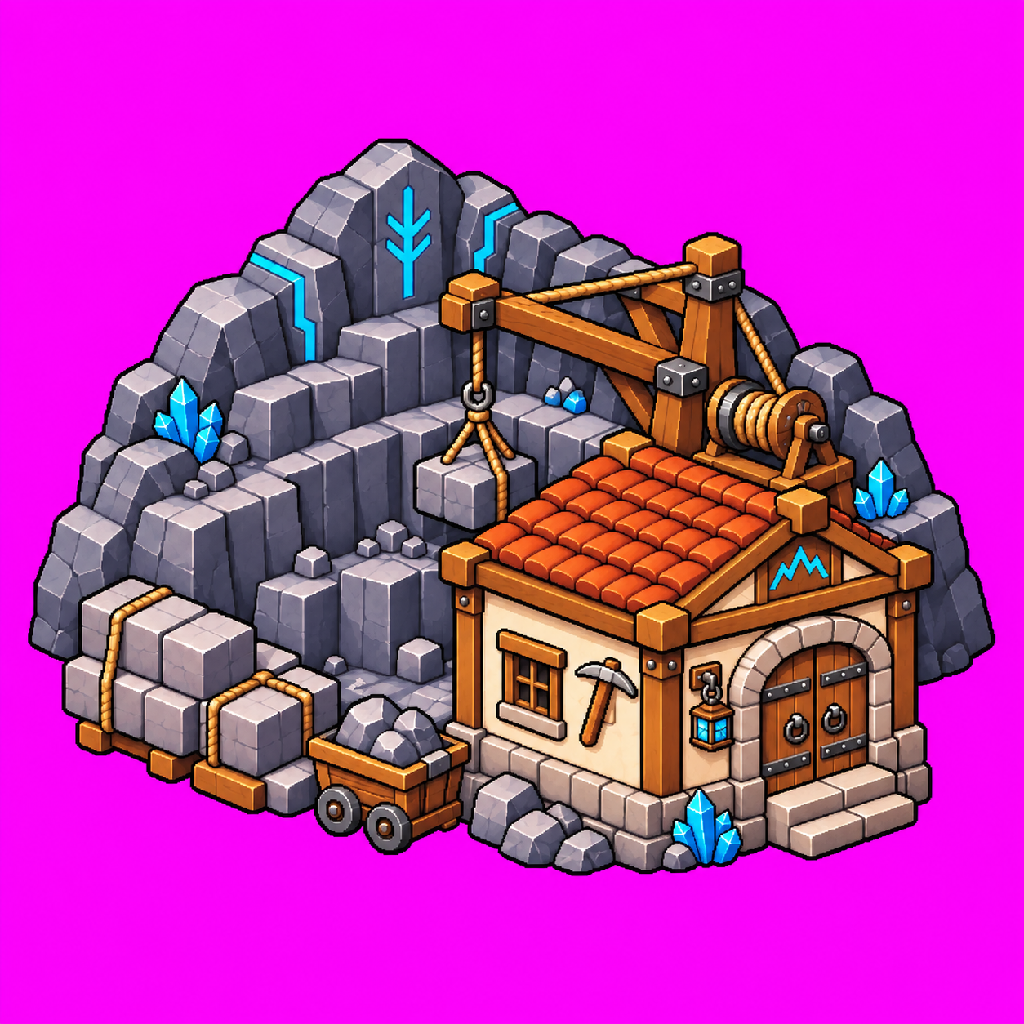
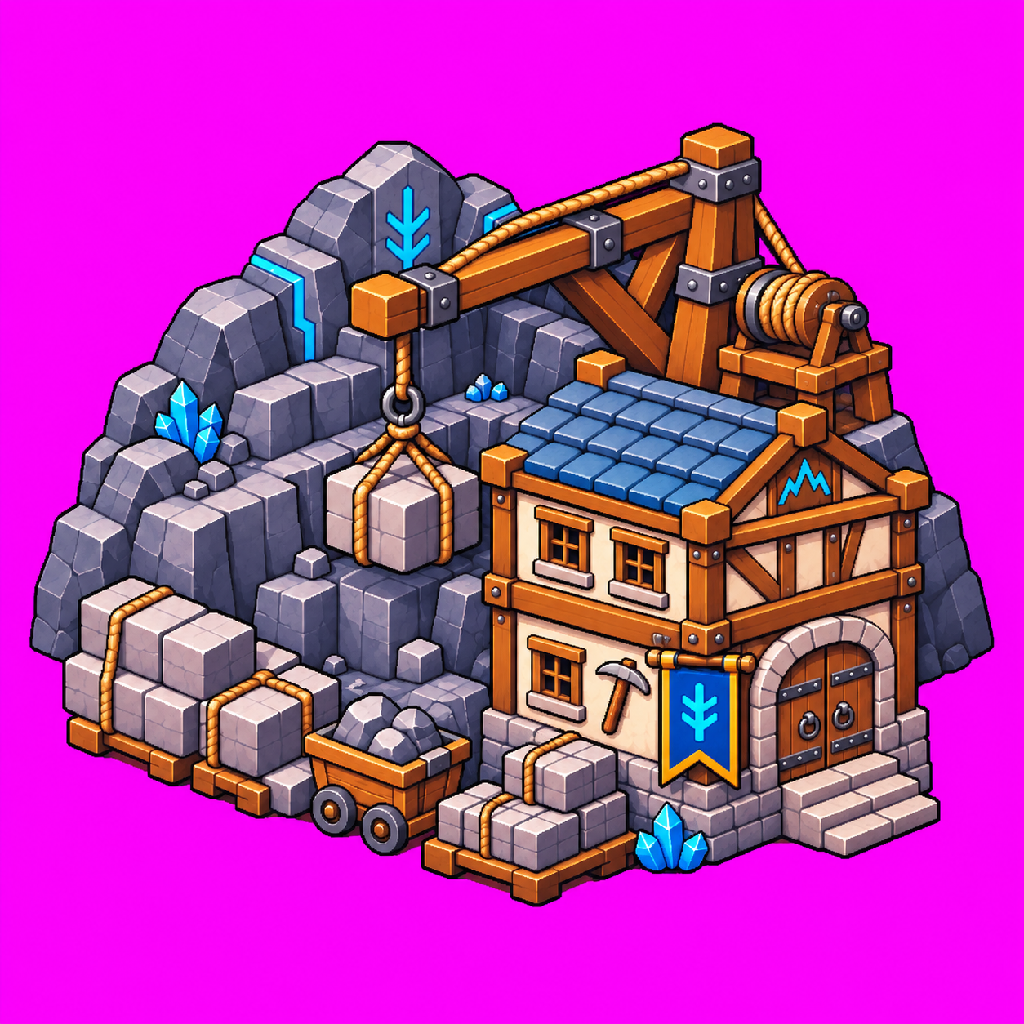
art: level 2/3 architecture for the quarry (redrawn) and four Arcane buildings

diff --git a/src/render/imageArt.ts b/src/render/imageArt.ts
@@ -188,11 +188,16 @@ export const IMAGE_BUILDINGS: Readonly<Record<string, string>> = {
  * a missing level falls back to the next lower one, then to the base image. Files sit next to the base image.
  */
 export const IMAGE_BUILDING_LEVELS: Readonly<Partial<Record<string, readonly (2 | 3)[]>>> = {
+  arcane_archmage: [2, 3],
+  arcane_frost_mages: [2, 3],
+  arcane_throne: [2, 3],
+  arcane_ward: [2, 3],
   stone_catapult: [2, 3],
   stone_crystal: [2, 3],
   stone_golem_forge: [2, 3],
   stone_miners: [2, 3],
   stone_mountain_heart: [2, 3],
+  stone_quarry: [2, 3],
   stone_throne: [2, 3],
   stone_wall: [2, 3],
   wheat_field: [2, 3],

diff --git a/docs/art-review/levels/review.md b/docs/art-review/levels/review.md
@@ -10,3 +10,5 @@ Danh sách P2 `building_<card>_l2/_l3` trong `tools/asset-admin/planned.json`. D
 
 - **Lúa Mì (7 + mẫu):** ruộng (L3 thêm chòi canh), kho thóc, trại nông dân, nhà thợ gặt, bù nhìn, Ngai, cối xay gió. Bảng `sheet-wheat.png`. ĐÃ DUYỆT cả nhóm.
 - **Đá Núi (7/8):** máy bắn đá, tháp pha lê, lò golem, mỏ, tim núi, Ngai, tường. Bảng `sheet-stone.png`. ĐÃ DUYỆT. **Mỏ đá (`stone_quarry`)**: L2/L3 gần như y hệt L1, vẽ lại với yêu cầu rõ hơn.
+- **Đá Núi, mỏ đá (vòng 2):** L2 thêm tầng và cần cẩu, L3 tháp cẩu lớn. ĐÃ DUYỆT.
+- **Phép Thuật (4/7):** pháp sư băng, đại pháp sư, Ngai, bùa chắn. Bảng `sheet-arcane.png`. ĐÃ DUYỆT. Học viện, thư viện, tháp pháp sư: mái L2/L3 thành sọc tím xanh lá, khác mái tím trơn của L1, vẽ lại.

diff --git a/docs/art-review/levels/stone_quarry/l3/prompt.md b/docs/art-review/levels/stone_quarry/l3/prompt.md
@@ -25,3 +25,5 @@ PRODUCTION (overrides "transparent background" above): image 1024x1024, ONE flat
 filling the whole canvas, no gradient, no ground patch outside the building's own footprint, no cast shadow on the
 background; the building itself must not contain magenta. Draw it centred with padding, the whole building visible.
 When done, print the saved path and the image size.
+
+REVIEW FIX (round 2): the previous level-3 drawing was almost identical to level 1. Make it the grand quarry: a tall timber-and-stone crane tower with a pulley wheel, a stone workshop with a slate roof and gold trim, glowing blue crystal veins in the cliff, carts of polished blocks, a large blue banner. Clearly bigger and richer than level 1, same footprint.

diff --git a/docs/art-review/levels/stone_quarry/l2/prompt.md b/docs/art-review/levels/stone_quarry/l2/prompt.md
@@ -25,3 +25,5 @@ PRODUCTION (overrides "transparent background" above): image 1024x1024, ONE flat
 filling the whole canvas, no gradient, no ground patch outside the building's own footprint, no cast shadow on the
 background; the building itself must not contain magenta. Draw it centred with padding, the whole building visible.
 When done, print the saved path and the image size.
+
+REVIEW FIX (round 2): the previous level-2 drawing was almost identical to level 1. Make the upgrade CLEARLY visible at thumbnail size: a second storey on the cutter's hut with a blue slate roof, a bigger wooden crane with a hanging stone block, neat stacked cut-stone blocks in front, and a blue banner.
